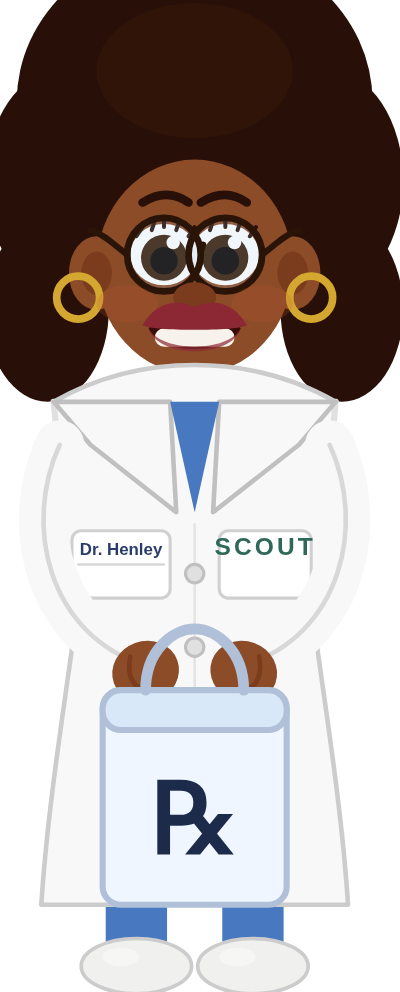
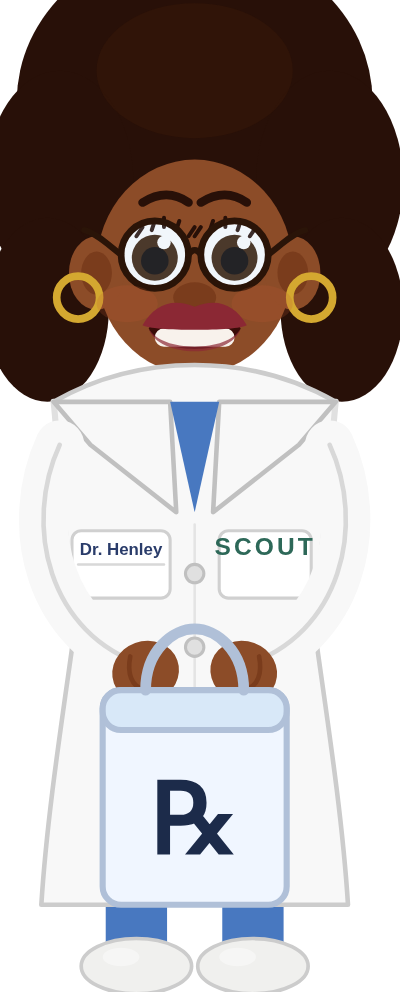
Fix glasses: center eyeballs within lens frames (cx 218/238 → 215/241)
The white sclera and pupils were offset 3px inward from the frame centers,
causing the sclera to overlap in the bridge zone. Now centered at 215/241
to match the frame ellipses. Re-rendered all four mascot PNGs.

Claude-Session: https://claude.ai/code/session_01Bm2o7jnq5rnKSEr42urvbC

Changed region(s): [[0.24, 0.2188, 0.72, 0.3125]]

diff --git a/scout.html b/scout.html
@@ -562,16 +562,16 @@ a:focus-visible { outline: 2px solid var(--orange); outline-offset: 3px; border-
         <path d="M 211,51 Q 219,46 226,51" stroke="#281008" stroke-width="2.8" fill="none" stroke-linecap="round"/>
         <path d="M 230,51 Q 238,46 245,51" stroke="#281008" stroke-width="2.8" fill="none" stroke-linecap="round"/>
         <g class="vet-eye-l">
-          <ellipse cx="218" cy="68" rx="11" ry="10" fill="white"/>
-          <circle cx="218" cy="69" r="7.5" fill="#3A1E08"/>
-          <circle cx="218" cy="70" r="4.5" fill="#0A0402"/>
-          <circle cx="221" cy="64" r="2.2" fill="white"/>
+          <ellipse cx="215" cy="68" rx="11" ry="10" fill="white"/>
+          <circle cx="215" cy="69" r="7.5" fill="#3A1E08"/>
+          <circle cx="215" cy="70" r="4.5" fill="#0A0402"/>
+          <circle cx="218" cy="64" r="2.2" fill="white"/>
         </g>
         <g class="vet-eye-r">
-          <ellipse cx="238" cy="68" rx="11" ry="10" fill="white"/>
-          <circle cx="238" cy="69" r="7.5" fill="#3A1E08"/>
-          <circle cx="238" cy="70" r="4.5" fill="#0A0402"/>
-          <circle cx="241" cy="64" r="2.2" fill="white"/>
+          <ellipse cx="241" cy="68" rx="11" ry="10" fill="white"/>
+          <circle cx="241" cy="69" r="7.5" fill="#3A1E08"/>
+          <circle cx="241" cy="70" r="4.5" fill="#0A0402"/>
+          <circle cx="244" cy="64" r="2.2" fill="white"/>
         </g>
         <path d="M 209,62 L 211,59 M 214,60 L 215,57 M 218,59 L 218,56 M 222,60 L 223,57 M 226,62 L 228,59" stroke="#281008" stroke-width="1.3" stroke-linecap="round"/>
         <path d="M 228,62 L 230,59 M 233,60 L 234,57 M 238,59 L 238,56 M 242,60 L 243,57 M 246,62 L 248,59" stroke="#281008" stroke-width="1.3" stroke-linecap="round"/>
